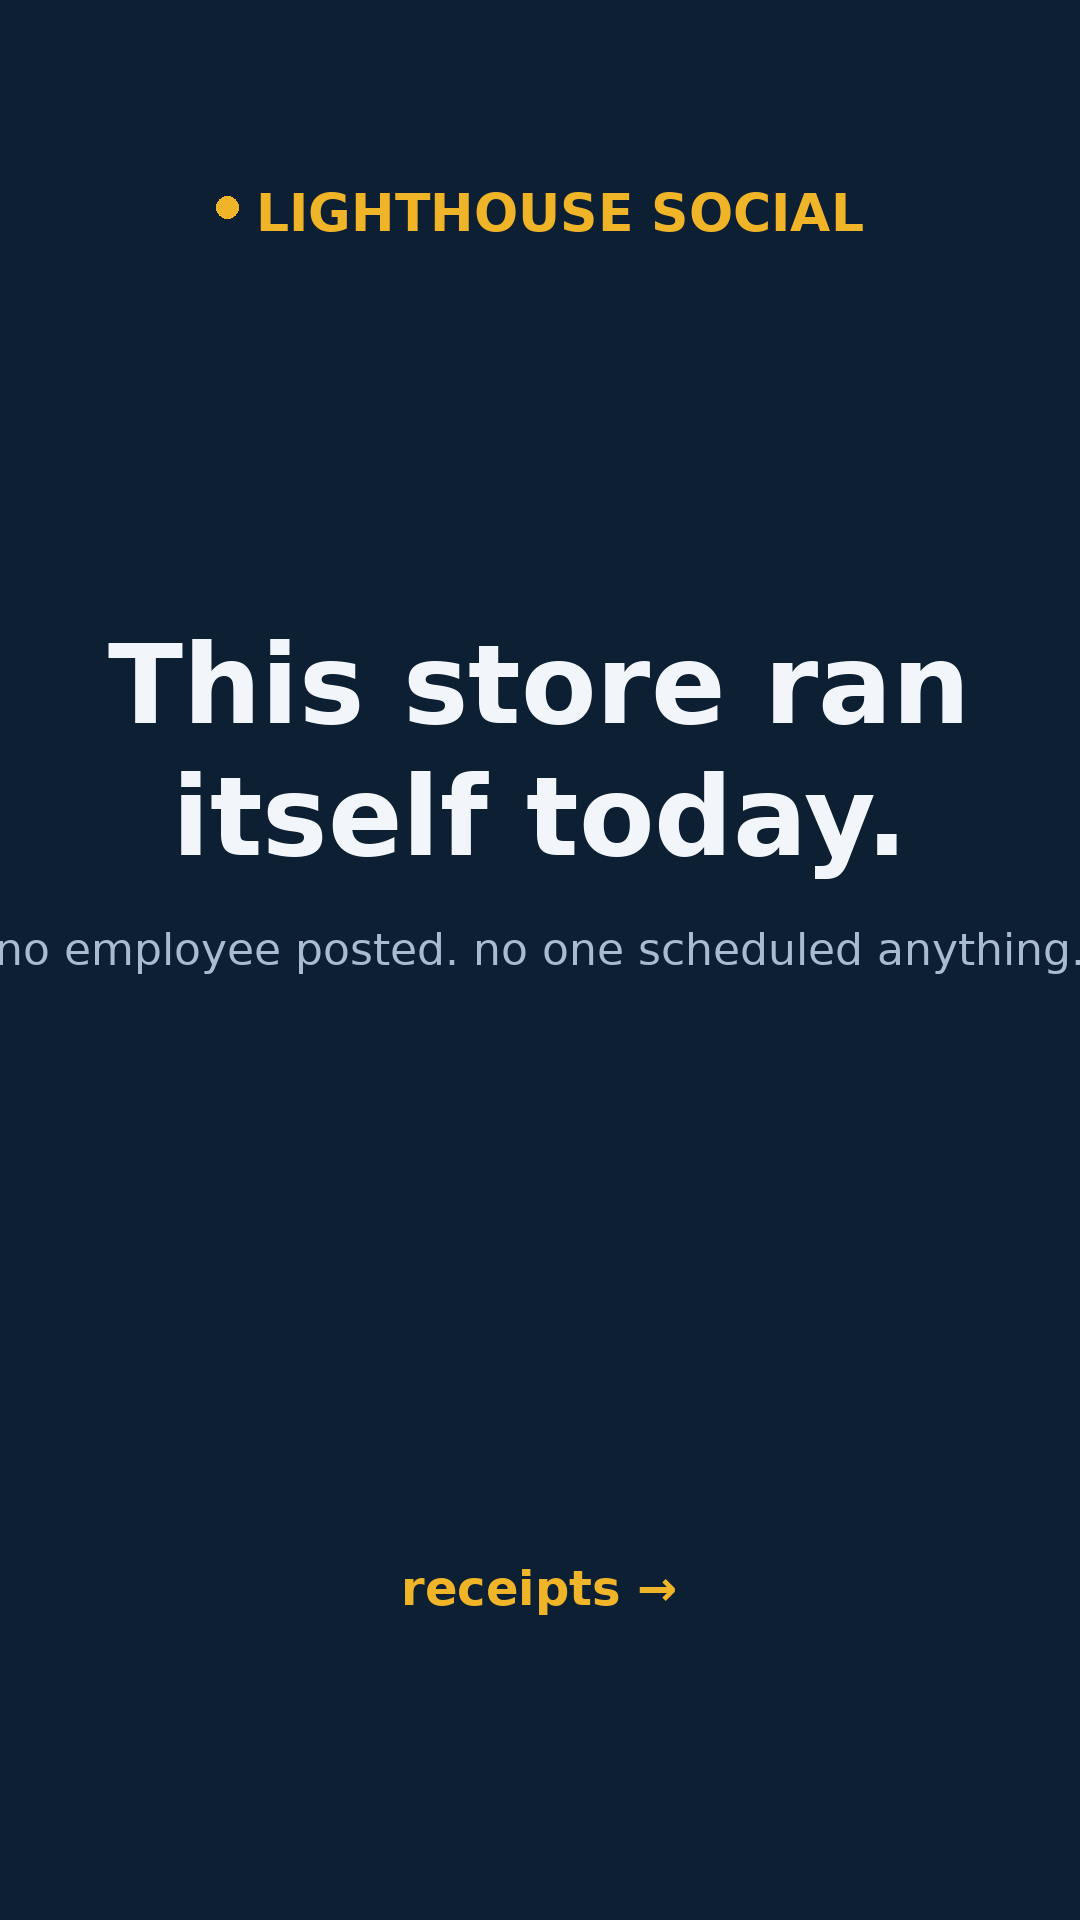
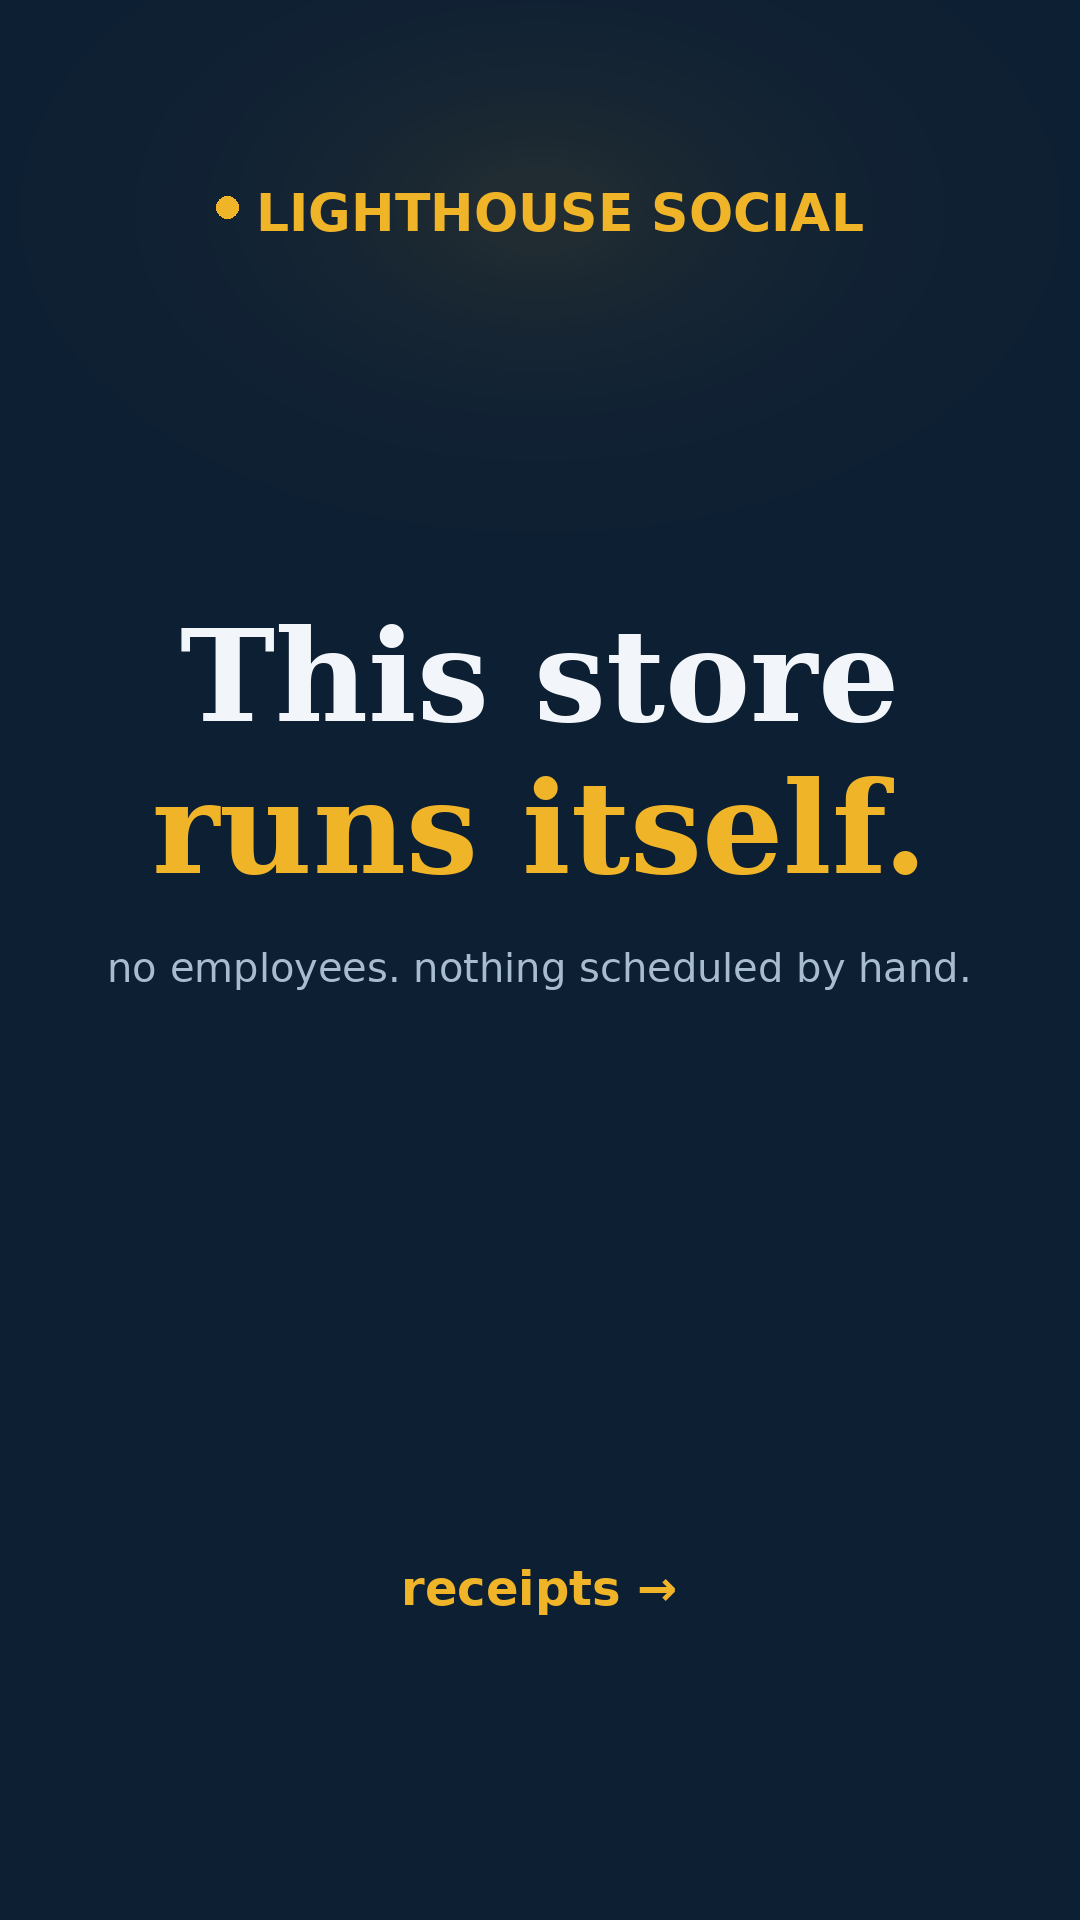
Lighthouse pack: present tense, automation-page styling, fitted text
Serif display with gold emphasis to match the automation page, a soft
beam glow behind the header, present-tense autopilot claims, and all
row/sub text auto-shrinks to fit inside its card.

Claude-Session: https://claude.ai/code/session_016WBRFe1MJn1UQSZgzashZd

Changed region(s): [[0.0611, 0.3125, 0.9778, 0.5312], [0.0, 0.4688, 0.0306, 0.5]]

diff --git a/make_daily_packs.py b/make_daily_packs.py
@@ -63,6 +63,49 @@ def _pick_daily(products):
     return [usable[(start + i) % len(usable)] for i in range(min(DAILY_COUNT, len(usable)))]
 
 
+SERIF_FONTS = {
+    True: ["/usr/share/fonts/truetype/dejavu/DejaVuSerif-Bold.ttf",
+           r"C:\\Windows\\Fonts\\georgiab.ttf"],
+    False: ["/usr/share/fonts/truetype/dejavu/DejaVuSerif.ttf",
+            r"C:\\Windows\\Fonts\\georgia.ttf"],
+}
+
+
+def _serif(size, bold=False):
+    from PIL import ImageFont
+    for path in SERIF_FONTS[bold]:
+        try:
+            return ImageFont.truetype(path, size)
+        except OSError:
+            continue
+    return _font(size, bold)  # sans fallback
+
+
+def _fit(draw, text, size, max_width, loader=None, bold=True):
+    """Largest font (from `size` down) at which text fits max_width."""
+    loader = loader or _font
+    while size > 24:
+        f = loader(size, bold)
+        if draw.textlength(text, font=f) <= max_width:
+            return f
+        size -= 2
+    return loader(24, bold)
+
+
+def _glow(canvas, cx, cy, radius):
+    """Soft gold radial glow, like the beam haze on the automation page."""
+    from PIL import Image, ImageDraw
+    overlay = Image.new("RGBA", canvas.size, (0, 0, 0, 0))
+    od = ImageDraw.Draw(overlay)
+    steps = 36
+    for i in range(steps, 0, -1):
+        r = radius * i / steps
+        alpha = int(26 * (1 - i / steps) ** 2) + 2
+        od.ellipse((cx - r, cy - r * 0.62, cx + r, cy + r * 0.62),
+                   fill=(240, 180, 41, alpha))
+    canvas.paste(Image.alpha_composite(canvas.convert("RGBA"), overlay).convert("RGB"), (0, 0))
+
+
 def _lh_header(draw, canvas):
     """Gold beacon dot + LIGHTHOUSE SOCIAL wordmark, centered."""
     from PIL import ImageDraw  # noqa: F401 - parity with sibling builders
@@ -83,15 +126,16 @@ def _lh_slide_hook():
     draw = ImageDraw.Draw(canvas)
     _lh_header(draw, canvas)
 
-    lines = ["This store ran", "itself today."]
-    y = 620
-    big = _font(110, True)
-    for line in lines:
-        draw.text(((W - draw.textlength(line, font=big)) // 2, y), line, font=big, fill=LH_INK)
-        y += 132
+    _glow(canvas, W // 2, 210, 520)
 
-    sub = "no employee posted. no one scheduled anything."
-    sub_font = _font(44)
+    y = 600
+    for line, colour in (("This store", LH_INK), ("runs itself.", GOLD)):
+        big = _fit(draw, line, 128, W - 2 * 90, loader=_serif)
+        draw.text(((W - draw.textlength(line, font=big)) // 2, y), line, font=big, fill=colour)
+        y += 152
+
+    sub = "no employees. nothing scheduled by hand."
+    sub_font = _fit(draw, sub, 44, W - 2 * 90, bold=False)
     draw.text(((W - draw.textlength(sub, font=sub_font)) // 2, y + 40), sub, font=sub_font, fill=FOG)
 
     hint = "receipts →"
@@ -111,24 +155,27 @@ def _lh_slide_receipts(product_count, refreshed):
     draw = ImageDraw.Draw(canvas)
     _lh_header(draw, canvas)
 
-    title = "today's receipts"
-    t_font = _font(72, True)
+    title = "what's on autopilot"
+    t_font = _fit(draw, title, 76, W - 2 * 90, loader=_serif)
     draw.text(((W - draw.textlength(title, font=t_font)) // 2, 330), title, font=t_font, fill=LH_INK)
 
     rows = [
-        "posted on X 3x, on schedule",
-        f"kept {product_count} products live on the site",
-        f"catalog refreshed {refreshed}",
-        "checked the site every hour",
+        "posts on X three times a day",
+        f"keeps {product_count} products live on the site",
+        f"refreshes the catalog every 3 days",
+        "checks the site's pulse every hour",
         "human hours required: zero",
     ]
     y = 560
-    row_font = _font(42, True)
+    text_left, text_right_pad = 200, 40
+    max_text_w = (W - 90) - text_left - text_right_pad
     for text in rows:
         card_h = 150
+        row_font = _fit(draw, text, 42, max_text_w)
         draw.rounded_rectangle((90, y, W - 90, y + card_h), radius=24, fill=NAVY_2)
         draw.ellipse((140, y + 64, 162, y + 86), fill=GOLD)
-        draw.text((200, y + 52), text, font=row_font, fill=LH_INK)
+        row_h = row_font.size
+        draw.text((text_left, y + (card_h - row_h) // 2 - 6), text, font=row_font, fill=LH_INK)
         y += card_h + 26
 
     buf = io.BytesIO()
@@ -145,10 +192,10 @@ def _lh_slide_cta():
     draw = ImageDraw.Draw(canvas)
     _lh_header(draw, canvas)
 
-    hook_font = _font(64, True)
-    for i, line in enumerate(["your business page", "could run like this"]):
-        draw.text(((W - draw.textlength(line, font=hook_font)) // 2, 350 + i * 84),
-                  line, font=hook_font, fill=LH_INK)
+    for i, (line, colour) in enumerate((("your business page", LH_INK), ("could run like this", GOLD))):
+        hook_font = _fit(draw, line, 68, W - 2 * 90, loader=_serif)
+        draw.text(((W - draw.textlength(line, font=hook_font)) // 2, 340 + i * 92),
+                  line, font=hook_font, fill=colour)
 
     qr_buf = io.BytesIO()
     segno.make(f"https://{SITE}/automation/", error="m").save(
@@ -161,8 +208,8 @@ def _lh_slide_cta():
     draw.rounded_rectangle((card_x, 600, card_x + card_w, 600 + card_w), radius=44, fill="#ffffff")
     canvas.paste(qr, ((W - qr.width) // 2, 600 + 44))
 
-    sub_font = _font(34)
     for i, sub in enumerate(["setup in a week · you approve the voice", "no contracts · cancel anytime"]):
+        sub_font = _fit(draw, sub, 34, W - 2 * 100, bold=False)
         draw.text(((W - draw.textlength(sub, font=sub_font)) // 2, 1310 + i * 52),
                   sub, font=sub_font, fill=FOG)
 
